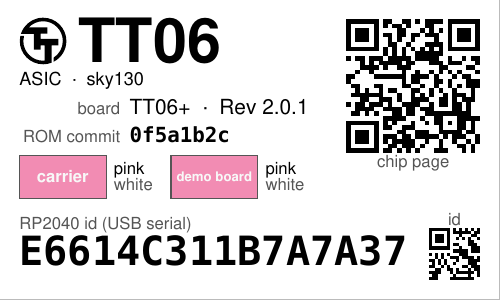
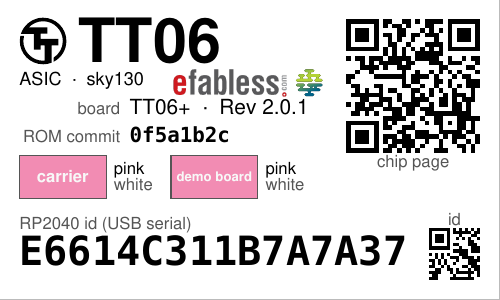
labels: the Tiny Tapeout label carries the marks of who made the chip
The shuttle table knows which programme ran each shuttle and whose silicon
it is; the label now shows it. At the right of the subtitle line, ending
flush with the text column, go the shuttle operator's mark and the
foundry's: Efabless then SkyWater for the early chipIgnite runs,
ChipFoundry then SkyWater for the 2025 ones, wafer.space then
GlobalFoundries for the GF runs, and IHP's own for its own, which is both.

They shrink from 3.4 mm rather than crowd a long subtitle, and drop out
below 2 mm. A mark whose artwork is absent is skipped rather than leaving
a hole, so a label is never wrong about who made a chip.

Claude-Session: https://claude.ai/code/session_017ibyTnuBCnNY7ACKAkdRiT

Changed region(s): [[0.33, 0.21, 0.66, 0.33]]

diff --git a/src/rpi_hwid/labels.py b/src/rpi_hwid/labels.py
@@ -269,6 +269,38 @@ def mark_raster(lab, name, x, y, height):
     return raster(lab, path, x, y, height) if path else 0
 
 
+def mark_file(name):
+    """The artwork file for a bare mark name, whichever form it ships in."""
+    for ext in (".svg", ".png"):
+        path = artwork(name + ext)
+        if path:
+            return path
+    return None
+
+
+def marks_widths(names, height, gap=1.2 * mm):
+    """[(file, width)] for the marks that exist, at `height`, and the width
+    the row of them takes. A mark whose file is absent is skipped rather
+    than leaving a hole."""
+    drawn = [(p, height / mark_aspect(p))
+             for p in (mark_file(n) for n in names) if p]
+    total = sum(w for _p, w in drawn) + gap * max(len(drawn) - 1, 0)
+    return drawn, total
+
+
+def marks_row(lab, names, right, y, height, gap=1.2 * mm):
+    """Draw the marks in a row ending flush at `right`, in the order
+    given, each scaled to `height`."""
+    drawn, total = marks_widths(names, height, gap)
+    at = right - total
+    for path, w in drawn:
+        if path.endswith(".svg"):
+            lab.svg(path, at, y, height)
+        else:
+            raster(lab, path, at, y, height)
+        at += w + gap
+
+
 def mark_aspect(path):
     """height / width of a mark, SVG or raster."""
     if path.endswith(".svg"):
@@ -662,7 +694,18 @@ def draw_tinytapeout(lab, tt):
     tx = x + (w + 1.5 * mm if w else 0)
     lab.fit(tx, y, tt.headline, SANS_BOLD, head_size, col_w - (tx - x))
     y += head_cap + 1.2 * mm
+    # The subtitle line, with the marks of whoever ran the shuttle and whose
+    # silicon it is at its right edge: an Efabless chipIgnite run on
+    # SkyWater, a wafer.space run on GlobalFoundries, IHP's own. They shrink
+    # rather than crowd a long subtitle, and drop out below 2 mm.
     lab.text(x, y, tt.subtitle, SANS, 6.5)          # fixed size, like the Pi subtitle
+    if tt.marks:
+        free = col_w - lab.width(tt.subtitle, SANS, 6.5) - 2 * mm
+        mh = 3.4 * mm
+        while mh > 2 * mm and marks_widths(tt.marks, mh)[1] > free:
+            mh -= 0.2 * mm
+        if marks_widths(tt.marks, mh)[1] <= free:
+            marks_row(lab, tt.marks, x + col_w, y - 0.4 * mm, mh)
     row = 3.5 * mm
     y += row
     cap_w = 14 * mm
@@ -764,6 +807,7 @@ class TinyTapeoutLabel:
     commit: str | None = None
     usb_serial: str | None = None
     mcu: str | None = None           # RP2040 | RP2350
+    marks: tuple[str, ...] = ()      # the shuttle's operator, then its foundry
     chip_colour: str | None = None   # hex, from the table
     chip_colour_name: str | None = None
     chip_silk: str | None = None
@@ -876,7 +920,7 @@ def tinytapeout_records(docs):
                 demoboard_text=demoboard_text(
                     b.demoboard, b.demoboard_version or info["demoboard_version"]),
                 shuttle=b.shuttle, chip=b.chip, commit=b.commit, usb_serial=b.usb_serial,
-                mcu=b.mcu,
+                mcu=b.mcu, marks=tuple(tt_data.shuttle_marks(b.shuttle)),
                 chip_colour=tt_data.COLOURS.get(info["chip_colour"] or ""),
                 chip_colour_name=info["chip_colour"],
                 chip_silk=tt_data.COLOURS.get(info["chip_silk"] or ""),

diff --git a/tests/test_labels.py b/tests/test_labels.py
@@ -251,3 +251,28 @@ def test_tt_label_tells_an_empty_rom_commit_from_an_unread_rom(docs, tmp_path):
     assert (recs[1].shuttle, recs[1].commit) == (None, None)
     n, _sheets = labels.render({"h": doc}, tmp_path / "tt.pdf", only=("tt",))
     assert n == 2
+
+
+def test_tt_label_carries_the_shuttle_marks(docs, tmp_path, monkeypatch):
+    """The shuttle's operator and foundry marks reach the record, and a
+    mark whose artwork is missing is skipped rather than leaving a hole."""
+    from dataclasses import replace
+
+    doc = copy.deepcopy(docs["rpi4-tt"])
+    boards = doc.summary.tinytapeout
+    doc.summary = replace(doc.summary, tinytapeout=(
+        replace(boards[0], shuttle="tt06"),         # efabless on skywater
+        replace(boards[1], shuttle="ttgf26a"),      # wafer.space on globalfoundries
+    ))
+    recs = labels.tinytapeout_records({"h": doc})
+    assert recs[0].marks == ("efabless", "skywater")
+    assert recs[1].marks == ("wafer-space", "globalfoundries")
+    for name in recs[0].marks + recs[1].marks:
+        assert labels.mark_file(name), name
+
+    _drawn, full = labels.marks_widths(recs[0].marks, 3 * labels.mm)
+    _drawn, one = labels.marks_widths(("efabless", "nonesuch"), 3 * labels.mm)
+    assert 0 < one < full
+    assert labels.marks_widths(("nonesuch",), 3 * labels.mm) == ([], 0)
+    n, _sheets = labels.render({"h": doc}, tmp_path / "tt.pdf", only=("tt",))
+    assert n == 2

diff --git a/docs/LABELS.md b/docs/LABELS.md
@@ -110,7 +110,10 @@ and a line to write the DNA on when it has not been read yet.
 
 ## Tiny Tapeout boards
 
-The shuttle is the headline, with ASIC or FPGA breakout and the PDK under it; then
+The shuttle is the headline, with ASIC or FPGA breakout and the PDK under it, and
+at the right of that line the marks of whoever ran the shuttle and whose silicon
+it is — an Efabless or ChipFoundry chipIgnite run on SkyWater, a wafer.space run
+on GlobalFoundries, or IHP's own, which is both. Then
 the demo board as the SDK detected it with the revision that shipped in that kit,
 and the chip ROM's commit. Then a sample of each board, so the right one is
 picked out of a drawer: a box filled with that board's soldermask and lettered,
